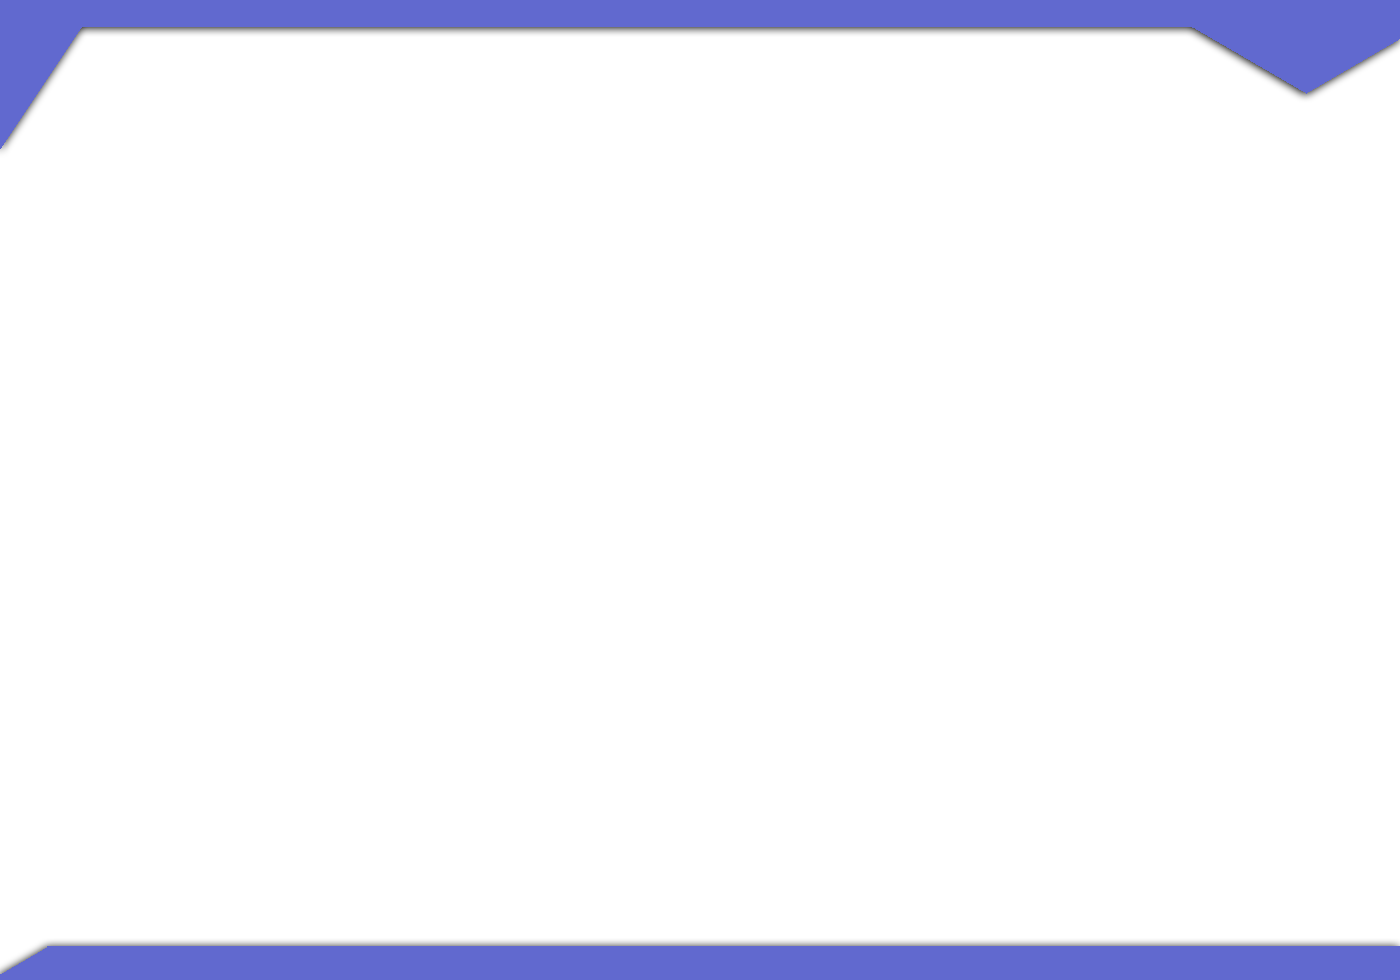
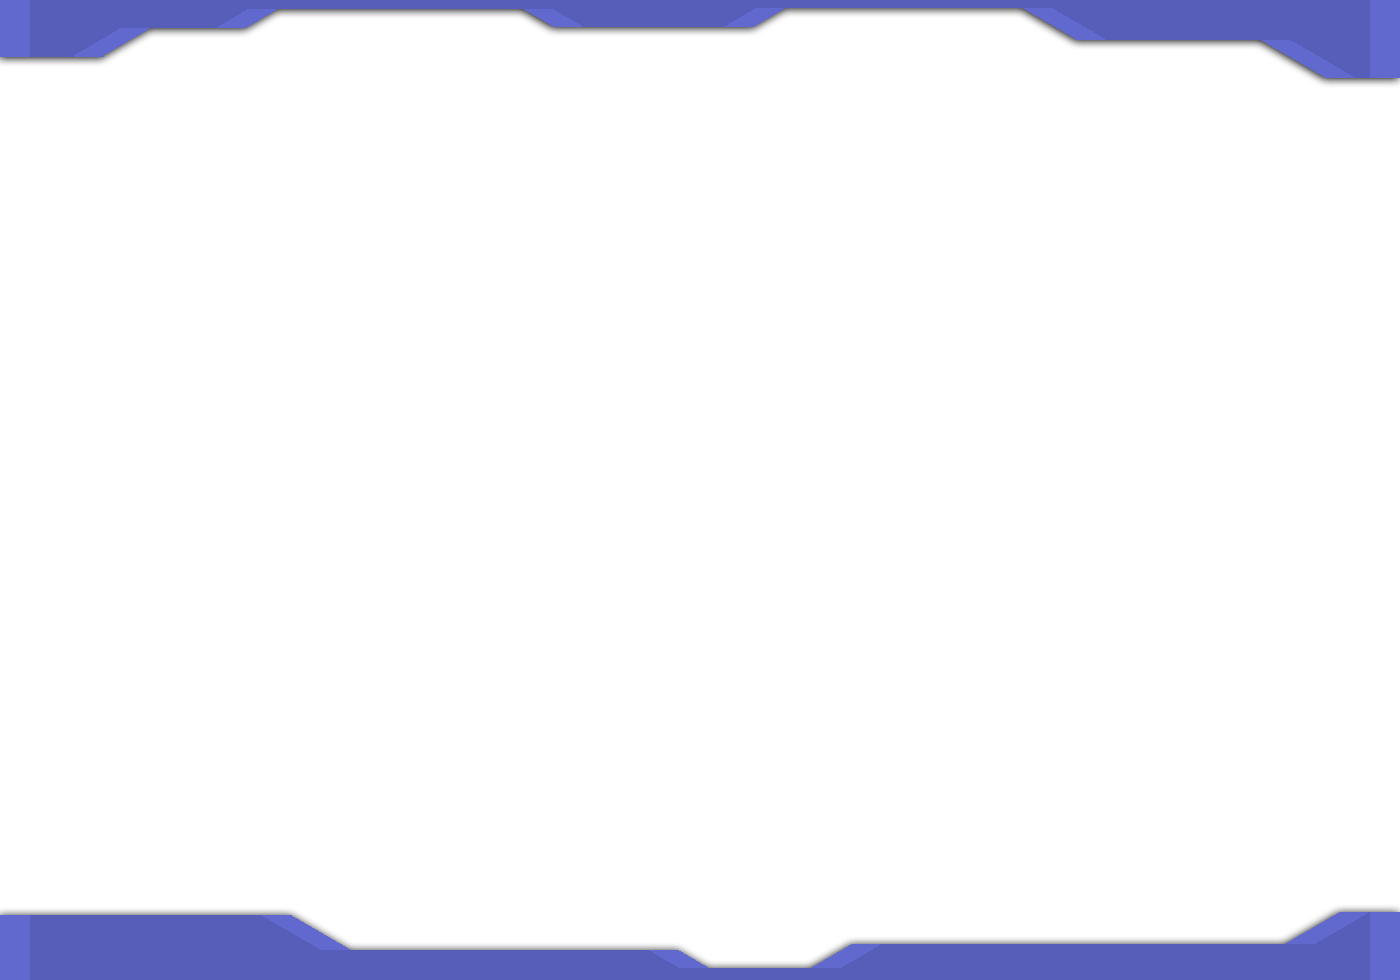
images

diff --git a/src/components/layout/home/HeroSection.tsx b/src/components/layout/home/HeroSection.tsx
@@ -208,6 +208,38 @@ export default function HeroSection(): JSX.Element {
     5: "/static/images/pink-gate-r.webp",
   };
 
+  const colorSetBorderHorizontalLight: { [key: string]: string } = {
+    1: "/static/images/blue-border.png",
+    2: "/static/images/green-border.png",
+    3: "/static/images/yellow-border.png",
+    4: "/static/images/orange-border.png",
+    5: "/static/images/pink-border.png",
+  };
+
+  const colorSetBorderHorizontalDark: { [key: string]: string } = {
+    1: "/static/images/blue-border-dark.png",
+    2: "/static/images/green-border-dark.png",
+    3: "/static/images/yellow-border-dark.png",
+    4: "/static/images/orange-border-dark.png",
+    5: "/static/images/pink-border-dark.png",
+  };
+
+  const colorSetBorderVerticalLight: { [key: string]: string } = {
+    1: "/static/images/blue-vertical-light.png",
+    2: "/static/images/green-vertical-light.png",
+    3: "/static/images/yellow-vertical-light.png",
+    4: "/static/images/orange-vertical-light.png",
+    5: "/static/images/pink-vertical-light.png",
+  };
+
+  const colorSetBorderVerticalDark: { [key: string]: string } = {
+    1: "/static/images/blue-vertical-dark.png",
+    2: "/static/images/green-vertical-dark.png",
+    3: "/static/images/yellow-vertical-dark.png",
+    4: "/static/images/orange-vertical-dark.png",
+    5: "/static/images/pink-vertical-dark.png",
+  };
+
   const imageBgSrc = colorSetBgMap[activeSet.toString()] || colorSetBgMap[1];
 
   const imageFrameSrc =
@@ -215,8 +247,25 @@ export default function HeroSection(): JSX.Element {
 
   const imageBgLeftSrc =
     colorSetBgMapLeft[activeSet.toString()] || colorSetBgMapLeft[1];
+
   const imageBgRightSrc =
     colorSetBgMapRight[activeSet.toString()] || colorSetBgMapRight[1];
+
+  const colorSetBorderHorizontalLightSrc =
+    colorSetBorderHorizontalLight[activeSet.toString()] ||
+    colorSetBorderHorizontalLight[1];
+
+  const colorSetBorderHorizontalDarkSrc =
+    colorSetBorderHorizontalDark[activeSet.toString()] ||
+    colorSetBorderHorizontalDark[1];
+
+  const colorSetBorderVerticalLightSrc =
+    colorSetBorderVerticalLight[activeSet.toString()] ||
+    colorSetBorderVerticalLight[1];
+
+  const colorSetBorderVerticalDarkSrc =
+    colorSetBorderVerticalDark[activeSet.toString()] ||
+    colorSetBorderVerticalDark[1];
 
   const handleDialogOpen = () => {
     setDialogOpen(true);
@@ -390,9 +439,8 @@ export default function HeroSection(): JSX.Element {
 
       <Box
         component="img"
-        width={{ xs: 180, sm: 180, md: 35 }}
         alt="Logo"
-        src={imageFrameSrc}
+        src={colorSetBorderVerticalDarkSrc}
         sx={(theme) => ({
           position: "absolute",
           top: 0,
@@ -401,7 +449,55 @@ export default function HeroSection(): JSX.Element {
           height: "100%",
           pointerEvents: "none",
           zIndex: "4",
-          marginTop: "1rem",
+          marginTop: "2.5rem",
+        })}
+      />
+
+      <Box
+        component="img"
+        alt="Logo"
+        src={colorSetBorderVerticalLightSrc}
+        sx={(theme) => ({
+          position: "absolute",
+          top: 0,
+          left: 0,
+          width: "100%",
+          height: "100%",
+          pointerEvents: "none",
+          zIndex: "4",
+          marginTop: "2.5rem",
+        })}
+      />
+
+      <Box
+        component="img"
+        alt="Logo"
+        src={colorSetBorderHorizontalDarkSrc}
+        sx={(theme) => ({
+          position: "absolute",
+          top: 0,
+          left: 0,
+          width: "100%",
+          height: "100%",
+          pointerEvents: "none",
+          zIndex: "4",
+          marginTop: "2.5rem",
+        })}
+      />
+
+      <Box
+        component="img"
+        alt="Logo"
+        src={colorSetBorderHorizontalLightSrc}
+        sx={(theme) => ({
+          position: "absolute",
+          top: 0,
+          left: 0,
+          width: "100%",
+          height: "100%",
+          pointerEvents: "none",
+          zIndex: "4",
+          marginTop: "2.5rem",
         })}
       />
 

diff --git a/src/components/layout/home/ModsSection.tsx b/src/components/layout/home/ModsSection.tsx
@@ -207,11 +207,22 @@ const ModsSection: React.FC = () => {
     5: "/static/images/pink-border.png",
   };
 
+  const colorSetBgBorderDark: { [key: string]: string } = {
+    1: "/static/images/blue-border-dark.png",
+    2: "/static/images/green-border-dark.png",
+    3: "/static/images/yellow-border-dark.png",
+    4: "/static/images/orange-border-dark.png",
+    5: "/static/images/pink-border-dark.png",
+  };
+
   const imageBgBannerSrc =
     colorSetBgBannerRight[activeSet.toString()] || colorSetBgBannerRight[1];
 
   const imageBgBorderSrc =
     colorSetBgBorderRight[activeSet.toString()] || colorSetBgBorderRight[1];
+
+  const imageBgBorderDarkSrc =
+    colorSetBgBorderDark[activeSet.toString()] || colorSetBgBorderDark[1];
 
   SwiperCore.use([Scrollbar]);
 
@@ -250,6 +261,18 @@ const ModsSection: React.FC = () => {
           width: "100%",
           height: "100%",
           opacity: 0.75,
+        })}
+      />
+
+      <Box
+        component={"img"}
+        src={imageBgBorderDarkSrc}
+        sx={(theme) => ({
+          position: "absolute",
+          top: 0,
+          left: 0,
+          width: "100%",
+          height: "100%",
         })}
       />
 

diff --git a/src/components/layout/home/TeamSection.tsx b/src/components/layout/home/TeamSection.tsx
@@ -207,11 +207,22 @@ const TeamSection: React.FC = () => {
     5: "/static/images/pink-border.png",
   };
 
+  const colorSetBgBorderDark: { [key: string]: string } = {
+    1: "/static/images/blue-border-dark.png",
+    2: "/static/images/green-border-dark.png",
+    3: "/static/images/yellow-border-dark.png",
+    4: "/static/images/orange-border-dark.png",
+    5: "/static/images/pink-border-dark.png",
+  };
+
   const imageBgBannerSrc =
     colorSetBgBannerRight[activeSet.toString()] || colorSetBgBannerRight[1];
 
   const imageBgBorderSrc =
     colorSetBgBorderRight[activeSet.toString()] || colorSetBgBorderRight[1];
+
+  const imageBgBorderDarkSrc =
+    colorSetBgBorderDark[activeSet.toString()] || colorSetBgBorderDark[1];
 
   SwiperCore.use([Scrollbar]);
 
@@ -252,6 +263,18 @@ const TeamSection: React.FC = () => {
           opacity: 0.9,
         })}
       /> */}
+
+      <Box
+        component={"img"}
+        src={imageBgBorderDarkSrc}
+        sx={(theme) => ({
+          position: "absolute",
+          top: 0,
+          left: 0,
+          width: "100%",
+          height: "100%",
+        })}
+      />
 
       <Box
         component={"img"}

diff --git a/src/components/layout/home/DonateSection.tsx b/src/components/layout/home/DonateSection.tsx
@@ -129,11 +129,22 @@ const DonateSection: React.FC = () => {
     5: "/static/images/pink-border.png",
   };
 
+  const colorSetBgBorderDark: { [key: string]: string } = {
+    1: "/static/images/blue-border-dark.png",
+    2: "/static/images/green-border-dark.png",
+    3: "/static/images/yellow-border-dark.png",
+    4: "/static/images/orange-border-dark.png",
+    5: "/static/images/pink-border-dark.png",
+  };
+
   const imageBgBannerSrc =
     colorSetBgBannerRight[activeSet.toString()] || colorSetBgBannerRight[1];
 
   const imageBgBorderSrc =
     colorSetBgBorderRight[activeSet.toString()] || colorSetBgBorderRight[1];
+
+  const imageBgBorderDarkSrc =
+    colorSetBgBorderDark[activeSet.toString()] || colorSetBgBorderDark[1];
 
   return (
     <Box
@@ -172,6 +183,18 @@ const DonateSection: React.FC = () => {
           opacity: 0.9,
         })}
       /> */}
+
+      <Box
+        component={"img"}
+        src={imageBgBorderDarkSrc}
+        sx={(theme) => ({
+          position: "absolute",
+          top: 0,
+          left: 0,
+          width: "100%",
+          height: "100%",
+        })}
+      />
 
       <Box
         component={"img"}

diff --git a/src/pages/index.tsx b/src/pages/index.tsx
@@ -18,7 +18,7 @@ export default function Home(): JSX.Element {
         <Navbar />
       </Box>
       <HeroSection />
-      <ModsSection />
+      {/* <ModsSection /> */}
       <TeamSection />
       <DonateSection />
       <ColorSection />
